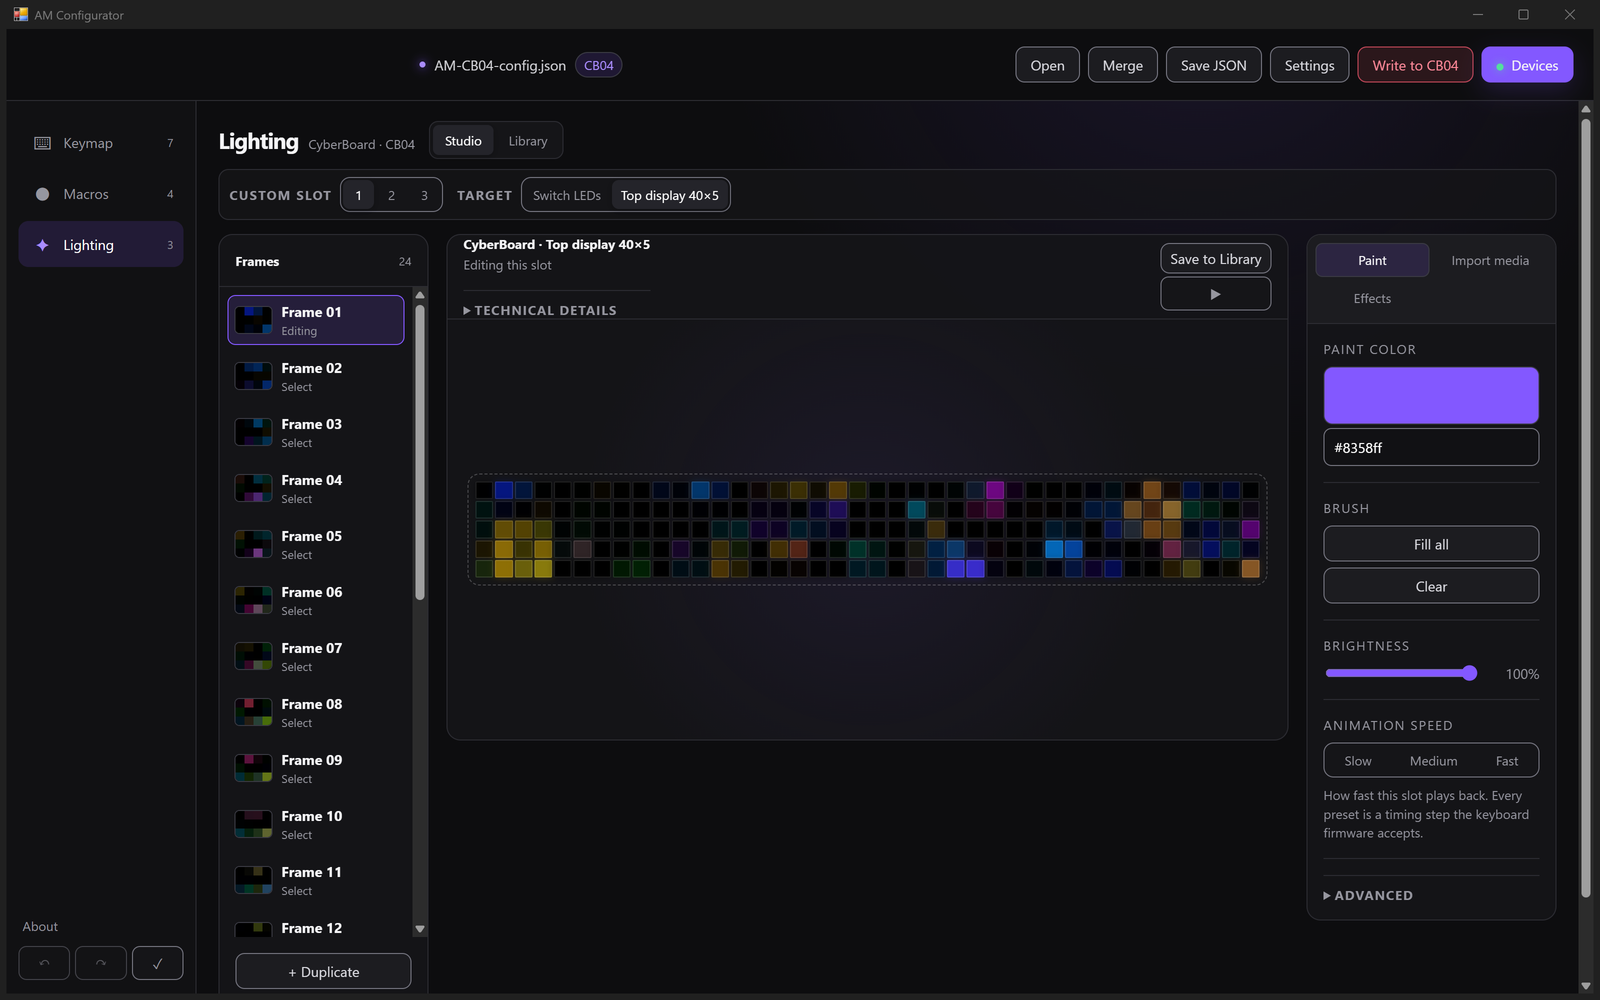
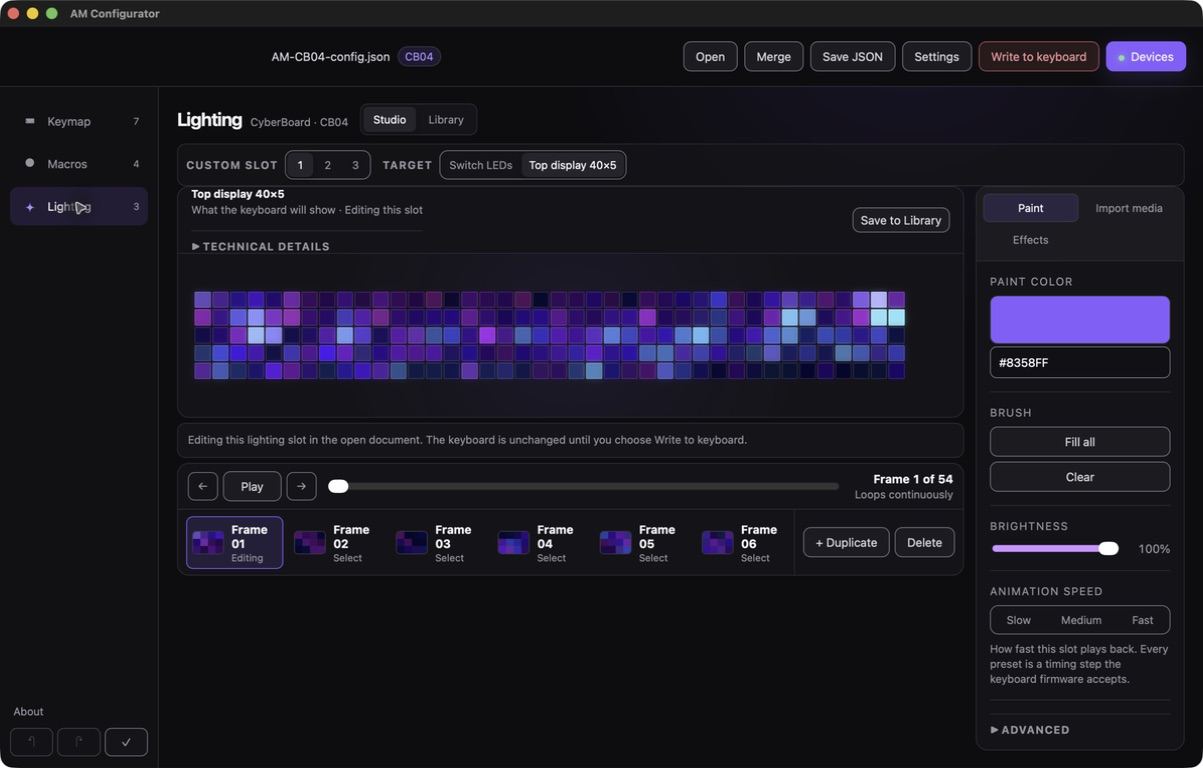
docs: refresh lighting studio README

diff --git a/tests/test_readme.py b/tests/test_readme.py
@@ -72,8 +72,7 @@ ACTION_LABELS = (
     "Paint",
     "Import media",
     "Effects",
-    "Preview",
-    "Apply to lighting slot",
+    "Apply",
     "Save to Library",
     "Ollama",
     "Direct API",

diff --git a/README.md b/README.md
@@ -88,9 +88,9 @@ or a firmware version you have not used before.
 
 *Keymap — select a physical key, then choose what it should send.*
 
-![The Lighting Studio: a keyboard-shaped canvas of individually labelled lights, the animation frame list, and the Paint, Import media, and Effects tools](docs/images/lighting.png)
+![The Lighting Studio: the physical LED output, a horizontal animation timeline, and the Paint, Import media, and Effects tools](docs/images/lighting.png)
 
-*Lighting — paint your board frame by frame, then apply the result to a slot.*
+*Lighting — edit a slot directly, or preview a media or effect result before applying it to the open profile.*
 
 ![The Macros screen: a macro list, the Type text box, and the delay control](docs/images/macros.png)
 
@@ -118,13 +118,14 @@ to adjust a single key press or pause.
 
 ### Lighting
 
-The Lighting Studio has three manual tools. **Paint** colours individual lights,
-frame by frame, on a keyboard-shaped canvas — multi-light keys stay separately
-labelled. **Import media** brings in GIF, PNG, and BMP files that you can pan,
-zoom, or stretch inside the destination outline. **Effects** animates a still
-frame with Pulse, Hue cycle, Sweep, Shimmer, and Move & zoom. Each tool works the
-same way: **Preview** first, then **Apply to lighting slot** when you like it.
-Timing choices are limited to values the destination firmware can actually play.
+The Lighting Studio has three manual tools. **Paint** colours individual lights
+directly on the physical LED output, with one shared horizontal timeline.
+**Import media** brings in GIF, PNG, and BMP files and keeps the source frame and
+what the keyboard will show together while you pan, zoom, or stretch. **Effects**
+shows Pulse, Hue cycle, Sweep, Shimmer, and Move & zoom as a live draft. Imported
+media and effects change the open profile only when you choose **Apply**; **Save
+to Library** remains separate. Timing choices are limited to values the destination
+firmware can actually play.
 
 ### Library
 
